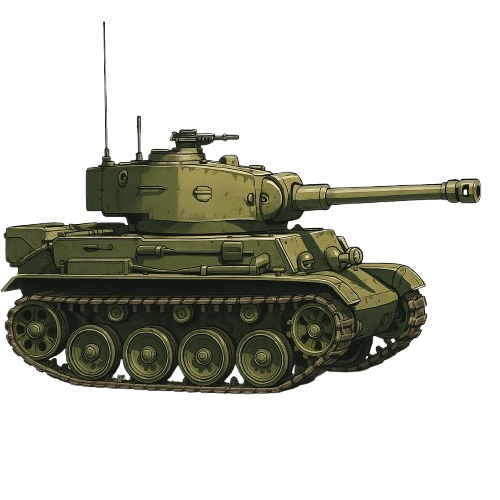
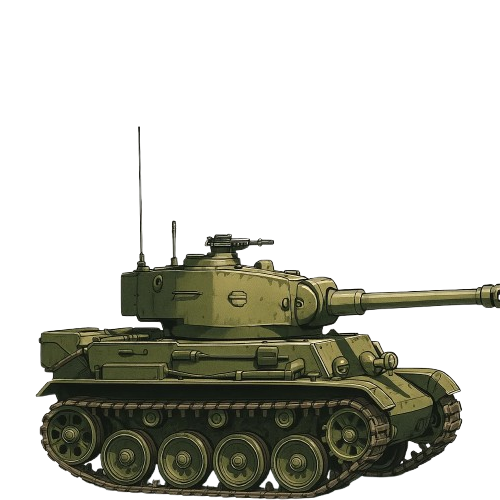
camera fixes

diff --git a/client/src/components/GameScreen.tsx b/client/src/components/GameScreen.tsx
@@ -363,6 +363,8 @@ const GameScreen: React.FC<GameScreenProps> = ({
     selectedUnitForPlacement, // Prop empfangen
     setSelectedUnitForPlacement, // Prop empfangen
 }) => {
+  const { camera } = useThree(); // Kamera-Objekt wieder hinzufügen
+
   // Zustand und Logik für UI-Elemente wurden nach GameLoader verschoben
   // Wir benötigen hier nur noch die Logik, die *direkt* die 3D-Szene beeinflusst.
 
@@ -373,6 +375,20 @@ const GameScreen: React.FC<GameScreenProps> = ({
   const allPlacedUnits = useMemo(() => gameState?.players.flatMap(p => p.placedUnits) ?? [], [gameState?.players]);
   const activeProjectiles = useMemo(() => gameState?.activeProjectiles ?? [], [gameState?.activeProjectiles]);
   const selfPlayer = useMemo(() => gameState?.players.find(p => p.id === playerId), [gameState, playerId]); // Wird für PlacementSystem benötigt
+
+  // Define axis length for helper
+  const axisLength = 10;
+
+  // Effekt zum einmaligen Setzen der initialen Kameraposition und des Ziels
+  useEffect(() => {
+    // const initialPosition = new THREE.Vector3(-25, 5, 25);
+    // const targetPosition = new THREE.Vector3(-20, 0, 25); // Blick entlang X mit 45° Neigung von y=5 auf y=0
+    const initialPosition = new THREE.Vector3(-25, 25, 25); 
+    const targetPosition = new THREE.Vector3(0, 0, 25); 
+
+    camera.position.copy(initialPosition);
+    camera.lookAt(targetPosition);
+  }, [camera]);
 
   if (!gameState) {
     // Sollte nicht passieren, da GameLoader wartet
@@ -392,19 +408,36 @@ const GameScreen: React.FC<GameScreenProps> = ({
         <directionalLight position={[10, 20, 5]} intensity={0.8} />
 
         {/* NEU: Achsen-Helfer (direkt nutzbar) */}
-        <axesHelper args={[10]} />
+        <axesHelper args={[axisLength]} />
+        
+        {/* Axis Labels */}
+        <Html position={[axisLength + 1, 0, 0]} center>
+           <span style={{ color: 'red', fontWeight: 'bold', fontSize: '1.5em' }}>X</span>
+        </Html>
+        <Html position={[0, axisLength + 1, 0]} center>
+           <span style={{ color: 'green', fontWeight: 'bold', fontSize: '1.5em' }}>Y</span>
+        </Html>
+        <Html position={[0, 0, axisLength + 1]} center>
+           <span style={{ color: 'blue', fontWeight: 'bold', fontSize: '1.5em' }}>Z</span>
+        </Html>
 
         {/* Boden-Plane mit neuer Textur */}
         <GroundPlane />
        
         <OrbitControls 
-          enableRotate={false} 
+          enableRotate={true} // Rotation generell erlauben
           enablePan={true}     
           mouseButtons={{
-            LEFT: THREE.MOUSE.PAN,   
+            LEFT: THREE.MOUSE.ROTATE, // Linke Taste für Rotation
             MIDDLE: THREE.MOUSE.DOLLY, 
+            RIGHT: THREE.MOUSE.PAN    // Rechte Taste für Panning (Bewegung)
           }}
           screenSpacePanning={false}
+          target={[0, 0, 25]} // Explizit das Ziel für OrbitControls setzen
+            // Vertikale Rotation: Keine Einschränkung
+            // Horizontale Rotation: ±45° von der Startrichtung (-90°)
+            minAzimuthAngle={-3 * Math.PI / 4} // -135°
+            maxAzimuthAngle={-Math.PI / 4}   // -45°
         /> 
 
         {/* NEU: Platziersystem rendern */}
